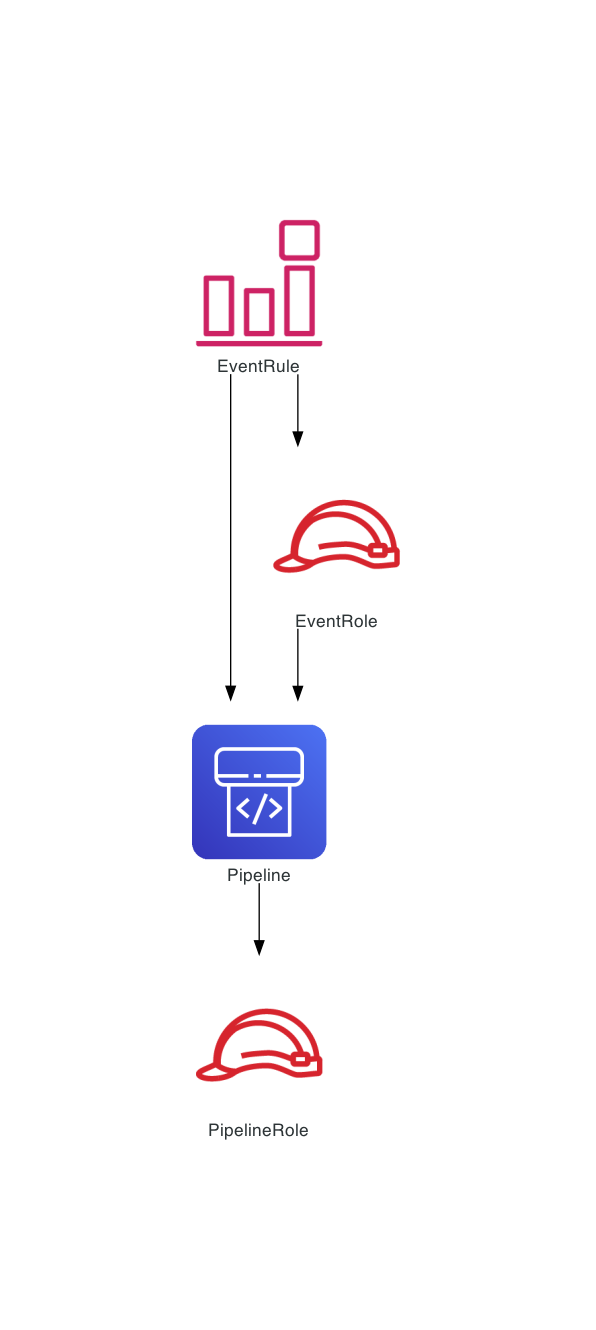
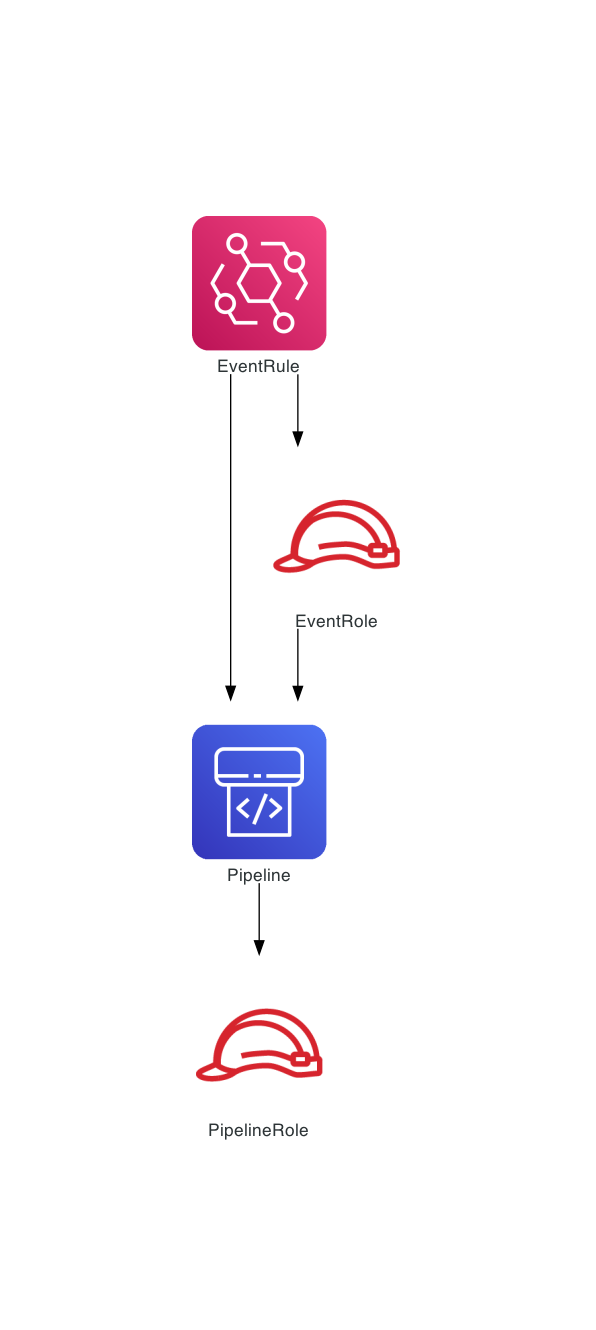
Add support for AWS::CloudFormation::StackSet, AWS::Events::EventBus, AWS::Events::EventBusPolicy, AWS::Logs::ResourcePolicy, and AWS::SQS::QueuePolicy resource types and improve support for AWS::Events::Rule resource type

Changed region(s): [[0.302, 0.1541, 0.5738, 0.2774]]

diff --git a/docs/supported_resource_types.md b/docs/supported_resource_types.md
@@ -18,6 +18,7 @@
 | `AWS::AutoScaling::ScheduledAction` | ![AWS::AutoScaling::ScheduledAction](https://raw.githubusercontent.com/mingrammer/diagrams/refs/heads/master/resources/aws/management/auto-scaling.png) |
 | `AWS::CloudFormation::Macro` | ![AWS::CloudFormation::Macro](https://raw.githubusercontent.com/mingrammer/diagrams/refs/heads/master/resources/aws/management/cloudformation.png) |
 | `AWS::CloudFormation::Stack` | ![AWS::CloudFormation::Stack](https://raw.githubusercontent.com/mingrammer/diagrams/refs/heads/master/resources/aws/management/cloudformation-stack.png) |
+| `AWS::CloudFormation::StackSet` | ![AWS::CloudFormation::StackSet](https://raw.githubusercontent.com/mingrammer/diagrams/refs/heads/master/resources/aws/management/cloudformation-stack.png) |
 | `AWS::CloudFormation::WaitConditionHandle` | ![AWS::CloudFormation::WaitConditionHandle](https://raw.githubusercontent.com/mingrammer/diagrams/refs/heads/master/resources/aws/management/cloudformation.png) |
 | `AWS::CloudFormation::WaitCondition` | ![AWS::CloudFormation::WaitCondition](https://raw.githubusercontent.com/mingrammer/diagrams/refs/heads/master/resources/aws/management/cloudformation.png) |
 | `AWS::CloudFront::CachePolicy` | ![AWS::CloudFront::CachePolicy](https://raw.githubusercontent.com/mingrammer/diagrams/refs/heads/master/resources/aws/network/cloudfront.png) |
@@ -88,7 +89,9 @@
 | `AWS::ElasticLoadBalancingV2::LoadBalancer` |  ![AWS::ElasticLoadBalancingV2::LoadBalancer](https://raw.githubusercontent.com/mingrammer/diagrams/refs/heads/master/resources/aws/network/elb-network-load-balancer.png) ![AWS::ElasticLoadBalancingV2::LoadBalancer](https://raw.githubusercontent.com/mingrammer/diagrams/refs/heads/master/resources/aws/network/elb-application-load-balancer.png) ![AWS::ElasticLoadBalancingV2::LoadBalancer](https://raw.githubusercontent.com/mingrammer/diagrams/refs/heads/master/resources/aws/network/elastic-load-balancing.png) |
 | `AWS::ElasticLoadBalancingV2::TargetGroup` | ![AWS::ElasticLoadBalancingV2::TargetGroup](https://raw.githubusercontent.com/mingrammer/diagrams/refs/heads/master/resources/aws/network/elastic-load-balancing.png) |
 | `AWS::EMR::Cluster` | ![AWS::EMR::Cluster](https://raw.githubusercontent.com/mingrammer/diagrams/refs/heads/master/resources/aws/analytics/emr-cluster.png) |
-| `AWS::Events::Rule` | ![AWS::Events::Rule](https://raw.githubusercontent.com/mingrammer/diagrams/refs/heads/master/resources/aws/management/cloudwatch-event-event-based.png) |
+| `AWS::Events::EventBus` | ![AWS::Events::EventBus](https://raw.githubusercontent.com/mingrammer/diagrams/refs/heads/master/resources/aws/integration/eventbridge.png) |
+| `AWS::Events::EventBusPolicy` | ![AWS::Events::EventBusPolicy](https://raw.githubusercontent.com/mingrammer/diagrams/refs/heads/master/resources/aws/integration/eventbridge.png) |
+| `AWS::Events::Rule` | ![AWS::Events::Rule](https://raw.githubusercontent.com/mingrammer/diagrams/refs/heads/master/resources/aws/integration/eventbridge.png) |
 | `AWS::Greengrass::CoreDefinition` | ![AWS::Greengrass::CoreDefinition](https://raw.githubusercontent.com/mingrammer/diagrams/refs/heads/master/resources/aws/iot/iot-greengrass.png) |
 | `AWS::Greengrass::CoreDefinitionVersion` | ![AWS::Greengrass::CoreDefinitionVersion](https://raw.githubusercontent.com/mingrammer/diagrams/refs/heads/master/resources/aws/iot/iot-greengrass.png) |
 | `AWS::Greengrass::FunctionDefinition` | ![AWS::Greengrass::FunctionDefinition](https://raw.githubusercontent.com/mingrammer/diagrams/refs/heads/master/resources/aws/iot/iot-greengrass.png) |
@@ -116,6 +119,7 @@
 | `AWS::Logs::LogGroup` | ![AWS::Logs::LogGroup](https://raw.githubusercontent.com/mingrammer/diagrams/refs/heads/master/resources/aws/management/cloudwatch-logs.png) |
 | `AWS::Logs::LogStream` | ![AWS::Logs::LogStream](https://raw.githubusercontent.com/mingrammer/diagrams/refs/heads/master/resources/aws/management/cloudwatch-logs.png) |
 | `AWS::Logs::QueryDefinition` | ![AWS::Logs::QueryDefinition](https://raw.githubusercontent.com/mingrammer/diagrams/refs/heads/master/resources/aws/management/cloudwatch.png) |
+| `AWS::Logs::ResourcePolicy` | ![AWS::Logs::ResourcePolicy](https://raw.githubusercontent.com/mingrammer/diagrams/refs/heads/master/resources/aws/management/cloudwatch-logs.png) |
 | `AWS::Neptune::DBCluster` | ![AWS::Neptune::DBCluster](https://raw.githubusercontent.com/mingrammer/diagrams/refs/heads/master/resources/aws/database/neptune.png) |
 | `AWS::Neptune::DBInstance` | ![AWS::Neptune::DBInstance](https://raw.githubusercontent.com/mingrammer/diagrams/refs/heads/master/resources/aws/database/neptune.png) |
 | `AWS::Neptune::DBClusterParameterGroup` | ![AWS::Neptune::DBClusterParameterGroup](https://raw.githubusercontent.com/mingrammer/diagrams/refs/heads/master/resources/aws/database/neptune.png) |
@@ -141,6 +145,7 @@
 | `AWS::SNS::TopicPolicy` | ![AWS::SNS::TopicPolicy](https://raw.githubusercontent.com/mingrammer/diagrams/refs/heads/master/resources/aws/integration/simple-notification-service-sns.png) |
 | `AWS::SNS::Subscription` | ![AWS::SNS::Subscription](https://raw.githubusercontent.com/mingrammer/diagrams/refs/heads/master/resources/aws/integration/simple-notification-service-sns.png) |
 | `AWS::SQS::Queue` | ![AWS::SQS::Queue](https://raw.githubusercontent.com/mingrammer/diagrams/refs/heads/master/resources/aws/integration/simple-queue-service-sqs-queue.png) |
+| `AWS::SQS::QueuePolicy` | ![AWS::SQS::QueuePolicy](https://raw.githubusercontent.com/mingrammer/diagrams/refs/heads/master/resources/aws/integration/simple-queue-service-sqs.png) |
 | `AWS::SSM::Association` | ![AWS::SSM::Association](https://raw.githubusercontent.com/mingrammer/diagrams/refs/heads/master/resources/aws/management/systems-manager.png) |
 | `AWS::SSM::Document` | ![AWS::SSM::Document](https://raw.githubusercontent.com/mingrammer/diagrams/refs/heads/master/resources/aws/management/systems-manager.png) |
 | `AWS::WAFv2::WebACL` | ![AWS::WAFv2::WebACL](https://raw.githubusercontent.com/mingrammer/diagrams/refs/heads/master/resources/aws/security/waf.png) |

diff --git a/README.md b/README.md
@@ -10,12 +10,12 @@ A simple CLI script to generate AWS infrastructure diagrams from AWS CloudFormat
 ## Features
 
 * Parses both YAML and JSON AWS CloudFormation templates
-* Supports [143 AWS resource types and any custom resource types](https://github.com/philippemerle/AWS-CloudFormation-Diagrams/blob/main/docs/supported_resource_types.md)
+* Supports [148 AWS resource types and any custom resource types](https://github.com/philippemerle/AWS-CloudFormation-Diagrams/blob/main/docs/supported_resource_types.md)
 * Supports `Rain::Module` resource type
 * Supports `DependsOn`, `Ref`, and `Fn::GetAtt` relationships
 * Supports `::Id`-suffixed parameter types such as `AWS::EC2::Image::Id`, `AWS::EC2::SecurityGroup::Id`, `AWS::EC2::Subnet::Id`, `AWS::EC2::VPC::Id`, `AWS::SSM::Parameter::Value<AWS::EC2::Image::Id>`, `List<AWS::EC2::SecurityGroup::Id>`, `List<AWS::EC2::Subnet::Id>`, or `List<AWS::EC2::VPC::Id>`
 * Generates DOT, GIF, JPEG, PDF, PNG, SVG, and TIFF diagrams
-* Provides [148 generated diagram examples](https://github.com/philippemerle/AWS-CloudFormation-Diagrams/blob/main/diagrams/)
+* Provides [156 generated diagram examples](https://github.com/philippemerle/AWS-CloudFormation-Diagrams/blob/main/diagrams/)
 
 Have ideas? [Open an issue](https://github.com/philippemerle/AWS-CloudFormation-Diagrams/issues/new) or [start a discussion](https://github.com/philippemerle/AWS-CloudFormation-Diagrams/discussions/new).
 
